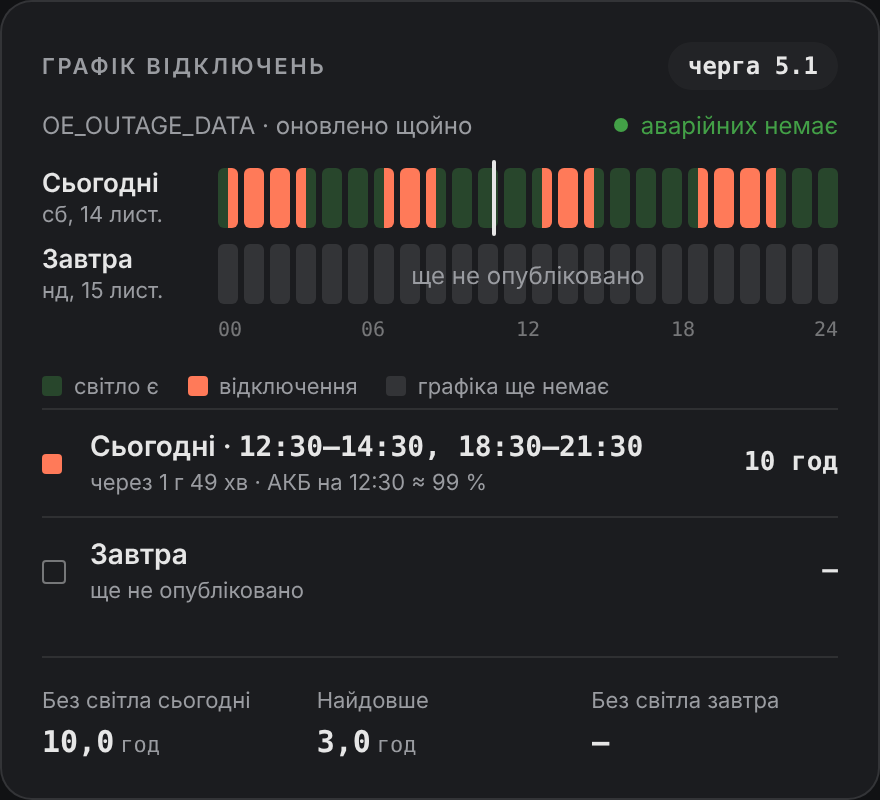
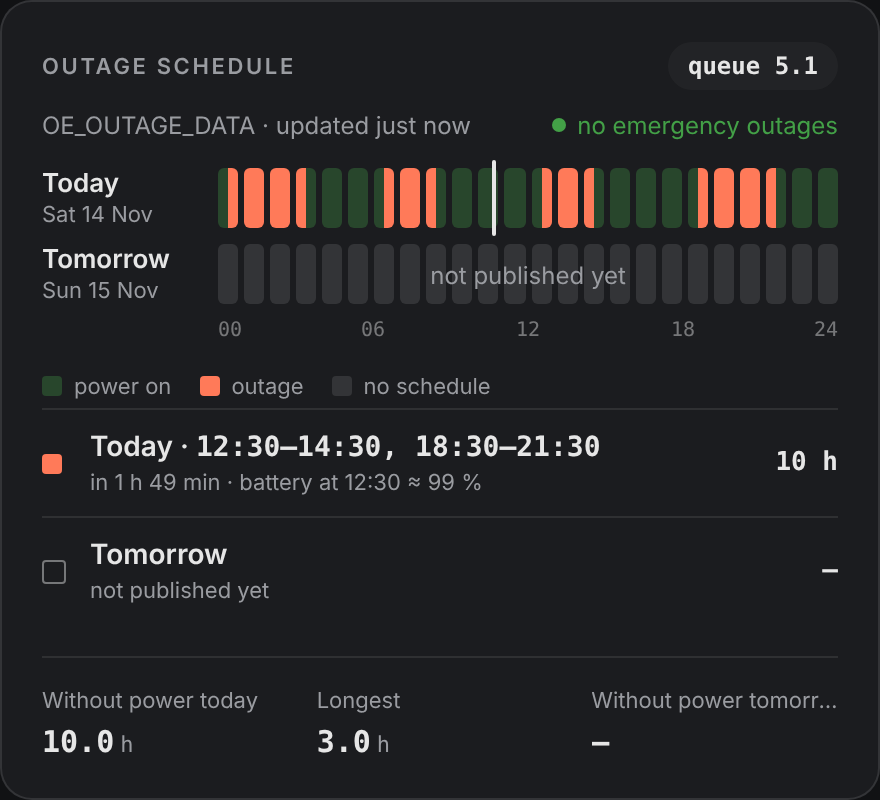
Add entity name language option, English screenshots
Entity names are English by default and can be switched to Ukrainian or
the Home Assistant language; entity IDs always come from English names.
Calendar events follow the same language. Records card icons now use
their colors. README screenshots are in English.

diff --git a/custom_components/blackout/frontend/blackout-card.js b/custom_components/blackout/frontend/blackout-card.js
@@ -470,7 +470,8 @@ function t(t,e,o,s,n,r){function a(t){if(void 0!==t&&"function"!=typeof t)throw 
     </ha-card>`}renderContent(t){return this.renderTiles(this.items().map((e,o)=>this.tile(e,o,t.f,t)))}renderTiles(t){const e=this.config?.columns??2;return L`<div class="tiles" style=${wt({"--record-columns":String(e)})}>
       ${t.map(t=>L`<div class="tile">
             <div class="tile-head">
-              <ha-icon .icon=${t.icon}></ha-icon><span>${t.label}</span>
+              <ha-icon .icon=${t.icon} style=${wt({color:t.color})}></ha-icon
+              ><span>${t.label}</span>
             </div>
             <div class="tile-value">${Yt(t.parts)}</div>
             <div class="tile-note">${t.note}</div>

diff --git a/frontend/src/cards/records-card.ts b/frontend/src/cards/records-card.ts
@@ -189,7 +189,8 @@ export class BlackoutRecordsCard extends BlackoutBaseCard<RecordsCardConfig> {
         (tile) =>
           html`<div class="tile">
             <div class="tile-head">
-              <ha-icon .icon=${tile.icon}></ha-icon><span>${tile.label}</span>
+              <ha-icon .icon=${tile.icon} style=${styleMap({ color: tile.color })}></ha-icon
+              ><span>${tile.label}</span>
             </div>
             <div class="tile-value">${valueParts(tile.parts)}</div>
             <div class="tile-note">${tile.note}</div>

diff --git a/custom_components/blackout/calendar.py b/custom_components/blackout/calendar.py
@@ -16,8 +16,10 @@ from .models import KYIV, DaySchedule
 from .timeline import ScheduledOutage, current_outage, merged_outages, next_outage
 
 PARALLEL_UPDATES = 0
-SUMMARY_OUTAGE = "Power outage"
-SUMMARY_POSSIBLE = "Possible power outage"
+SUMMARIES = {
+    "en": ("Power outage", "Possible power outage", "Queue {group}"),
+    "uk": ("Відключення світла", "Можливе відключення світла", "Черга {group}"),
+}
 
 
 async def async_setup_entry(
@@ -29,18 +31,21 @@ async def async_setup_entry(
         async_add_entities([QueueCalendar(coordinator)], config_subentry_id=subentry_id)
 
 
-def _event(outage: ScheduledOutage, group: str) -> CalendarEvent:
+def _event(outage: ScheduledOutage, group: str, language: str) -> CalendarEvent:
+    definite, possible, queue = SUMMARIES.get(language, SUMMARIES["en"])
+
     return CalendarEvent(
         start=outage.start,
         end=outage.end,
-        summary=SUMMARY_POSSIBLE if outage.possible else SUMMARY_OUTAGE,
-        description=f"Queue {group}",
+        summary=possible if outage.possible else definite,
+        description=queue.format(group=group),
     )
 
 
 class QueueCalendar(QueueEntity, CalendarEntity):
     def __init__(self, coordinator: QueueCoordinator) -> None:
         super().__init__(coordinator, "schedule")
+        self._language = coordinator.names.language.split("-")[0]
 
     def _outages(self, start: date, end: date) -> list[ScheduledOutage]:
         days: dict[date, DaySchedule] = {}
@@ -62,7 +67,7 @@ class QueueCalendar(QueueEntity, CalendarEntity):
         outages = self.coordinator.outages()
         outage = current_outage(outages, now, possible=True) or next_outage(outages, now, possible=True)
 
-        return _event(outage, self.coordinator.group) if outage else None
+        return _event(outage, self.coordinator.group, self._language) if outage else None
 
     async def async_get_events(
         self, hass: HomeAssistant, start_date: datetime, end_date: datetime
@@ -71,7 +76,7 @@ class QueueCalendar(QueueEntity, CalendarEntity):
         last = end_date.astimezone(KYIV).date()
 
         return [
-            _event(outage, self.coordinator.group)
+            _event(outage, self.coordinator.group, self._language)
             for outage in self._outages(first, last)
             if outage.end > start_date and outage.start < end_date
         ]

diff --git a/custom_components/blackout/names.py b/custom_components/blackout/names.py
@@ -1,0 +1,46 @@
+"""Entity names in the language chosen in the options, entity IDs always from English names."""
+
+from __future__ import annotations
+
+from dataclasses import dataclass, field
+
+from homeassistant.core import HomeAssistant
+from homeassistant.helpers.translation import async_get_translations
+
+from .const import CONF_LANGUAGE, DEFAULT_LANGUAGE, DOMAIN, LANGUAGE_AUTO
+
+OBJECT_ID_LANGUAGE = "en"
+
+
+@dataclass(frozen=True, slots=True)
+class EntityNames:
+    language: str
+    names: dict[str, str] = field(default_factory=dict)
+    object_names: dict[str, str] = field(default_factory=dict)
+
+
+async def _load(hass: HomeAssistant, language: str) -> dict[str, str]:
+    translations = await async_get_translations(hass, language, "entity", [DOMAIN])
+    prefix = f"component.{DOMAIN}.entity."
+    names: dict[str, str] = {}
+
+    for key, value in translations.items():
+        if not key.startswith(prefix) or not key.endswith(".name"):
+            continue
+
+        names[key.removeprefix(prefix).split(".")[1]] = value
+
+    return names
+
+
+async def async_entity_names(hass: HomeAssistant, options: dict[str, object]) -> EntityNames:
+    chosen = str(options.get(CONF_LANGUAGE, DEFAULT_LANGUAGE))
+
+    if chosen == LANGUAGE_AUTO:
+        return EntityNames(hass.config.language)
+
+    return EntityNames(
+        chosen,
+        await _load(hass, chosen),
+        await _load(hass, OBJECT_ID_LANGUAGE),
+    )

diff --git a/tests/test_names.py b/tests/test_names.py
@@ -1,0 +1,43 @@
+"""Entity names follow the language option, entity IDs stay English."""
+
+from __future__ import annotations
+
+import pytest
+from freezegun.api import FrozenDateTimeFactory
+from homeassistant.core import HomeAssistant
+from pytest_homeassistant_custom_component.test_util.aiohttp import AiohttpClientMocker
+
+from custom_components.blackout.const import CONF_LANGUAGE
+
+from .test_integration import _entry, _mock_sources
+
+
+@pytest.mark.parametrize(
+    ("language", "name"),
+    [
+        ("en", "Home Power status"),
+        ("uk", "Home Стан світла"),
+        ("auto", "Home Стан світла"),
+    ],
+)
+async def test_entity_names(
+    hass: HomeAssistant,
+    aioclient_mock: AiohttpClientMocker,
+    freezer: FrozenDateTimeFactory,
+    language: str,
+    name: str,
+) -> None:
+    freezer.move_to("2026-11-14T08:00:00+00:00")
+    hass.config.language = "uk"
+    _mock_sources(aioclient_mock)
+    entry = _entry()
+    entry.add_to_hass(hass)
+    hass.config_entries.async_update_entry(entry, options={**entry.options, CONF_LANGUAGE: language})
+
+    assert await hass.config_entries.async_setup(entry.entry_id)
+    await hass.async_block_till_done()
+
+    state = hass.states.get("sensor.home_power_status")
+
+    assert state is not None
+    assert state.attributes["friendly_name"] == name

diff --git a/custom_components/blackout/__init__.py b/custom_components/blackout/__init__.py
@@ -11,10 +11,11 @@ from homeassistant.helpers import config_validation as cv
 from homeassistant.helpers.typing import ConfigType
 
 from .card import async_register_card
-from .const import DOMAIN, SUBENTRY_QUEUE
+from .const import DEFAULT_OPTIONS, DOMAIN, SUBENTRY_QUEUE
 from .coordinator import QueueCoordinator
 from .history import QueueHistory
 from .hub import BlackoutHub
+from .names import async_entity_names
 from .websocket import async_register
 
 PLATFORMS: list[Platform] = [
@@ -44,12 +45,14 @@ async def async_setup(hass: HomeAssistant, config: ConfigType) -> bool:
 
 async def async_setup_entry(hass: HomeAssistant, entry: BlackoutConfigEntry) -> bool:
     runtime = BlackoutRuntime(BlackoutHub(hass))
+    names = await async_entity_names(hass, {**DEFAULT_OPTIONS, **entry.options})
 
     for subentry in entry.subentries.values():
         if subentry.subentry_type != SUBENTRY_QUEUE:
             continue
 
         coordinator = QueueCoordinator(hass, entry, subentry, runtime.hub)
+        coordinator.names = names
         await coordinator.async_prepare()
         await coordinator.async_refresh()
         runtime.coordinators[subentry.subentry_id] = coordinator

diff --git a/custom_components/blackout/config_flow.py b/custom_components/blackout/config_flow.py
@@ -33,6 +33,7 @@ from .const import (
     CONF_GRID_THRESHOLD,
     CONF_GROUP,
     CONF_HISTORY_DAYS,
+    CONF_LANGUAGE,
     CONF_MIN_OUTAGE,
     CONF_NAME,
     CONF_OUTAGE_LOG_DAYS,
@@ -42,6 +43,8 @@ from .const import (
     DEFAULT_OPTIONS,
     DOMAIN,
     EMERGENCY_SOURCES,
+    LANGUAGE_AUTO,
+    LANGUAGES,
     SUBENTRY_QUEUE,
     TITLE,
 )
@@ -210,6 +213,13 @@ class BlackoutOptionsFlow(OptionsFlow):
         options = {**DEFAULT_OPTIONS, **self.config_entry.options}
         schema = vol.Schema(
             {
+                vol.Required(CONF_LANGUAGE, default=options[CONF_LANGUAGE]): SelectSelector(
+                    SelectSelectorConfig(
+                        options=[*LANGUAGES, LANGUAGE_AUTO],
+                        translation_key=CONF_LANGUAGE,
+                        mode=SelectSelectorMode.DROPDOWN,
+                    )
+                ),
                 vol.Required(CONF_SCAN_INTERVAL, default=options[CONF_SCAN_INTERVAL]): NumberSelector(
                     NumberSelectorConfig(min=3, max=60, step=1, mode=NumberSelectorMode.BOX, unit_of_measurement="min")
                 ),

diff --git a/custom_components/blackout/entity.py b/custom_components/blackout/entity.py
@@ -17,6 +17,11 @@ class QueueEntity(CoordinatorEntity[QueueCoordinator]):
         subentry = coordinator.subentry
         self._attr_unique_id = f"{subentry.subentry_id}_{key}"
         self._attr_translation_key = key
+        self._object_name = coordinator.names.object_names.get(key)
+
+        if (name := coordinator.names.names.get(key)) is not None:
+            self._attr_name = name
+
         self._attr_device_info = DeviceInfo(
             identifiers={(DOMAIN, subentry.subentry_id)},
             name=subentry.title,
@@ -24,6 +29,10 @@ class QueueEntity(CoordinatorEntity[QueueCoordinator]):
             model=f"Queue {coordinator.group}",
             entry_type=DeviceEntryType.SERVICE,
         )
+
+    @property
+    def suggested_object_id(self) -> str | None:
+        return self._object_name or super().suggested_object_id
 
     @property
     def available(self) -> bool:

diff --git a/custom_components/blackout/const.py b/custom_components/blackout/const.py
@@ -18,6 +18,11 @@ CONF_HISTORY_DAYS: Final = "history_days"
 CONF_OUTAGE_LOG_DAYS: Final = "outage_log_days"
 CONF_MIN_OUTAGE: Final = "min_outage_seconds"
 CONF_EMERGENCY_SOURCES: Final = "emergency_sources"
+CONF_LANGUAGE: Final = "language"
+
+LANGUAGE_AUTO: Final = "auto"
+LANGUAGES: Final = ("en", "uk")
+DEFAULT_LANGUAGE: Final = "en"
 
 EMERGENCY_UKRENERGO: Final = "ukrenergo"
 EMERGENCY_YASNO: Final = "yasno"
@@ -37,6 +42,7 @@ DEFAULT_OPTIONS: Final = {
     CONF_OUTAGE_LOG_DAYS: DEFAULT_OUTAGE_LOG_DAYS,
     CONF_MIN_OUTAGE: DEFAULT_MIN_OUTAGE,
     CONF_EMERGENCY_SOURCES: DEFAULT_EMERGENCY_SOURCES,
+    CONF_LANGUAGE: DEFAULT_LANGUAGE,
 }
 
 BACKFILL_MAX_DAYS: Final = 30

diff --git a/custom_components/blackout/coordinator.py b/custom_components/blackout/coordinator.py
@@ -43,6 +43,7 @@ from .models import (
     SlotState,
     empty_slots,
 )
+from .names import EntityNames
 from .regions import Region, get_region
 from .timeline import ScheduledOutage, merged_outages, slot_at
 
@@ -87,6 +88,7 @@ class QueueCoordinator(DataUpdateCoordinator[QueueData]):
         self.history = QueueHistory(hass, subentry.subentry_id)
         self.grid: GridMonitor | None = None
         self.changes: list[DayChange] = []
+        self.names = EntityNames(hass.config.language)
         self.fetches = 0
         self.last_error: str | None = None
         self.last_success: datetime | None = None

diff --git a/README.md b/README.md
@@ -108,6 +108,7 @@ Integration options:
 
 | Option | Default | |
 | --- | --- | --- |
+| Language of entity names | English | English, Українська or the Home Assistant language; entity IDs are always created from English names |
 | Update interval | 5 min | how often sources are asked; shared requests for all queues |
 | Keep schedules | 90 days | schedule history |
 | Keep outage log | 365 days | actual outages |
@@ -116,7 +117,8 @@ Integration options:
 
 ## Entities
 
-Every queue has a device with these entities (names follow the Home Assistant language).
+Every queue has a device with these entities. Names are in English by default, see the **Language of
+entity names** option.
 
 | Entity | |
 | --- | --- |
@@ -141,7 +143,8 @@ Slot codes in attributes and events: `1` power on, `0` outage, `?` possible outa
 ## Cards
 
 Every card takes `entity`: any entity of a Blackout queue, usually `sensor.<queue>_power_status`.
-All texts follow the Home Assistant language (English and Ukrainian are built in).
+Texts are in English and Ukrainian and follow the language of your Home Assistant profile; set
+`language` on a card to fix it.
 
 ### Common options
 
@@ -150,7 +153,7 @@ All texts follow the Home Assistant language (English and Ukrainian are built in
 | `entity` | — | entity of a Blackout queue |
 | `title` | per card | header text; the header is hidden with `show_header: false` |
 | `show_header` | `true` | |
-| `language` | Home Assistant language | `en` or `uk` |
+| `language` | profile language | `en` or `uk` |
 | `time_zone` | `Europe/Kyiv` | time zone of the times shown |
 | `labels` | — | your own texts by key, for example `hero.outage_in: Off in` (keys are in `frontend/src/i18n/en.ts`) |
 | `colors` | theme | `on`, `off`, `possible`, `emergency`, `battery`, `unknown` (any CSS color) |
